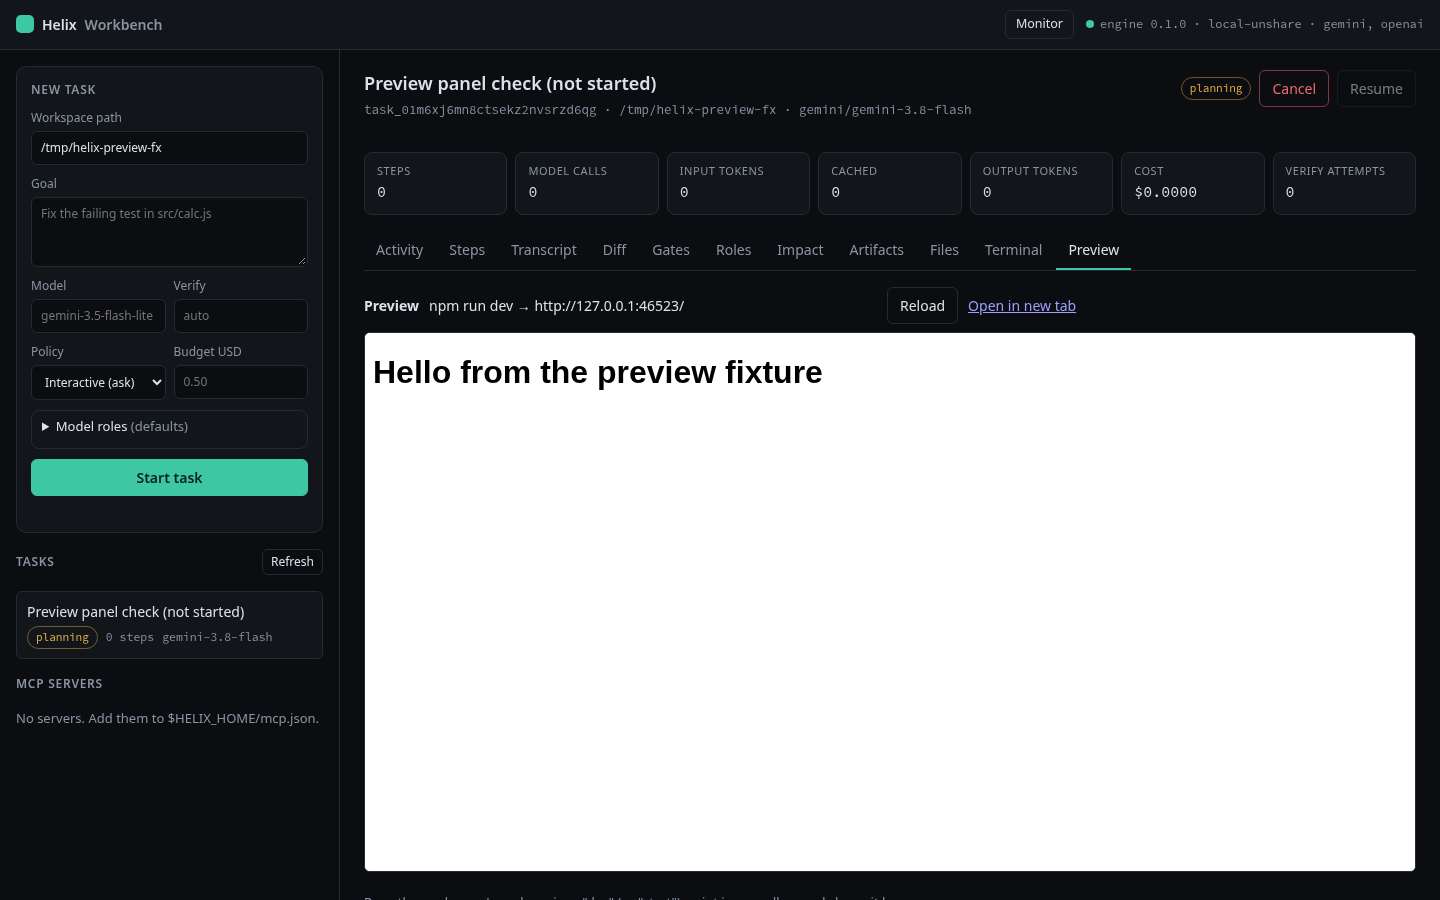
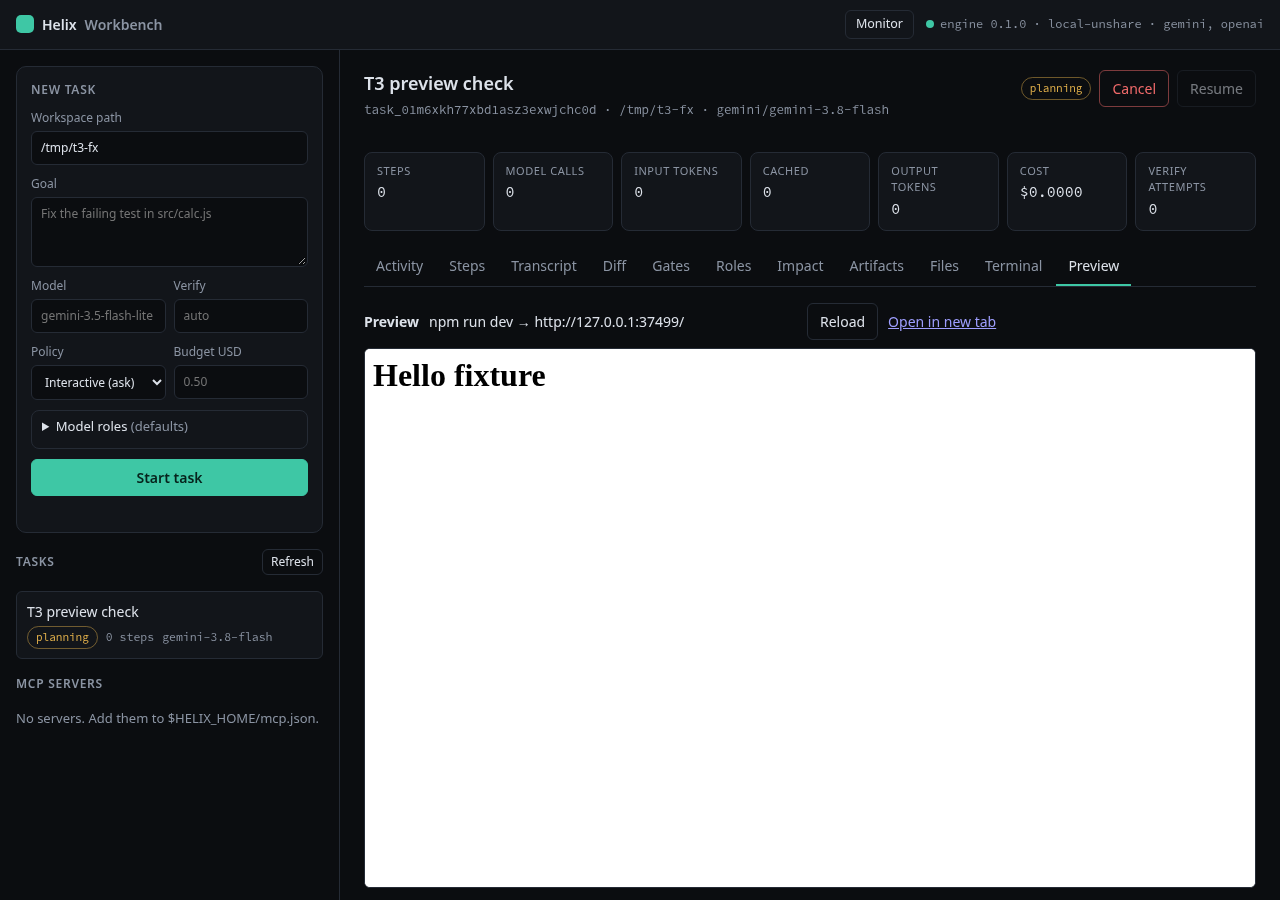
T3 done: browser-check evidence, progress

diff --git a/docs/roadmap.md b/docs/roadmap.md
@@ -77,7 +77,8 @@
   - Evidence: `node --test test/egress.test.ts` → 3/3 pass (registry.npmjs.org 200 via proxy; example.com 403 + `egress.denied`; `--noproxy '*'` fails; 169.254.169.254 403; `egress.allow` persisted then example.com 200); full engine suite 72/72 pass; commit ad36776
 - [x] **T2 Dev server start (F-PRV-1)** [§17.2] — Detect `dev`/`start` script or Vite/Next, start in sandbox on a free port, emit `preview.ready {url}`; agent tool `start_dev_server`. Accept: fixture web app starts and responds on localhost.
   - Evidence: `node --test test/devserver.test.ts` → 4/4 pass (fixture `npm run dev` starts in sandbox, `GET http://127.0.0.1:<free port>/` → 200 "Hello fixture"; `preview.ready` event; `start_dev_server` tool returns URL; crash reported with output); full engine suite 76/76 pass; commit fbc749f
-- [ ] **T3 Preview panel (F-PRV-2)** [§17.1, §17.3] — Workbench "Preview" tab: iframe of dev-server URL + reload. One tab only. Accept: browser check shows the fixture page inside the workbench.
+- [x] **T3 Preview panel (F-PRV-2)** [§17.1, §17.3] — Workbench "Preview" tab: iframe of dev-server URL + reload. One tab only. Accept: browser check shows the fixture page inside the workbench.
+  - Evidence: agent-browser on workbench `:4100` → task in `/tmp/t3-fx`, Preview tab → "Start dev server" → status `npm run dev → http://127.0.0.1:37499/`, iframe visible showing "Hello fixture"; commit 721770f; artifact evals/results/t3-preview-tab.png
 - [ ] **T4 Browser tools, minimal (F-PRV-5)** [§18.5] — Agent tools `preview_screenshot`, `preview_console` (headless Chromium via CDP, else Playwright). No recording. Accept: agent takes a screenshot and reads console errors of the fixture page.
 - [ ] **T5 Git panel, minimal (F-GIT-1, F-GIT-5)** [§20.1, §20.6] — Workbench "Git" tab: status, diff, stage all, commit. Agent tools cannot force-push or push to main. Accept: commit from panel appears in `git log`; agent `git push --force` is denied.
 - [ ] **T6 Explore subagent (F-ORC-1)** [§10.2] — Read-only subagent (find_symbol, code_search, read_file) as tool `explore {question}` returning a short summary. No DAG. Accept: fake-model test shows parent gets the summary and subagent has no write tools.

diff --git a/progress.md b/progress.md
@@ -11,14 +11,14 @@
 
 > These are **checklist completion** numbers (ticked items with recorded evidence ÷ all items). They are not a measure of product quality or release readiness; human launch gates in `docs/roadmap.md` are not counted.
 
-**Overall checklist completion: 42%** (37/89 roadmap items)  
+**Overall checklist completion: 43%** (38/89 roadmap items)  
 **Current milestone:** M1 MVP, grounded single agent  
-**Next task:** T3 Preview panel (F-PRV-2) [§17.1, §17.3]
+**Next task:** T4 Browser tools, minimal (F-PRV-5) [§18.5]
 
 | Milestone | Progress | Items | Status |
 | --- | --- | --- | --- |
 | M0 Foundations | ██████████ 100% | 11/11 | Done |
-| M1 MVP, grounded single agent | ████████░░ 81% | 21/26 | In progress |
+| M1 MVP, grounded single agent | █████████░ 85% | 22/26 | In progress |
 | M2 Precision and efficiency | ██░░░░░░░░ 23% | 5/22 | Partly built early |
 | M3 Parallel and background | ░░░░░░░░░░ 0% | 0/12 | Not started |
 | M4 Team and ecosystem | ░░░░░░░░░░ 0% | 0/9 | Not started |
@@ -28,7 +28,7 @@
 
 ## Current task notes (overwrite when the task changes)
 
-- T3 Preview panel: UI tab in `ui/index.html` + `renderPreview/startPreview` in `ui/app.js` written; next: CSP `frame-src` for 127.0.0.1 in `engine.ts`, `workspacePath` in `preview.ready` data, browser check.
+- T4 Browser tools: `src/preview/browser.ts` (CDP headless Chrome) exists; next: wire `preview_screenshot`/`preview_console` tools in `tools/builtin.ts` + `test/browser.test.ts`.
 
 ## Ideas parking lot (one line each, max 15 — do not implement)
 
